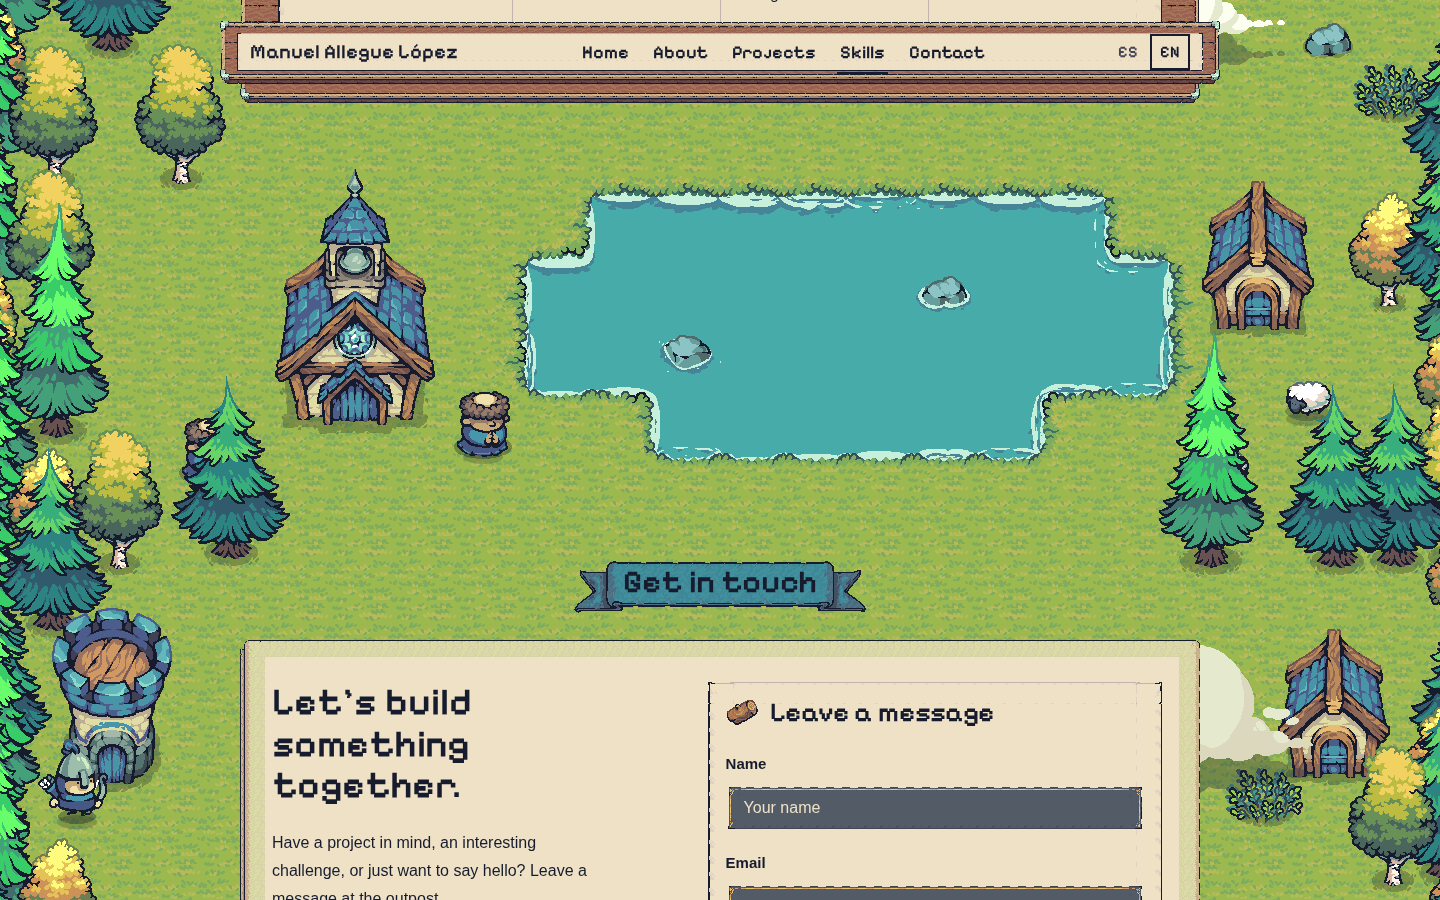
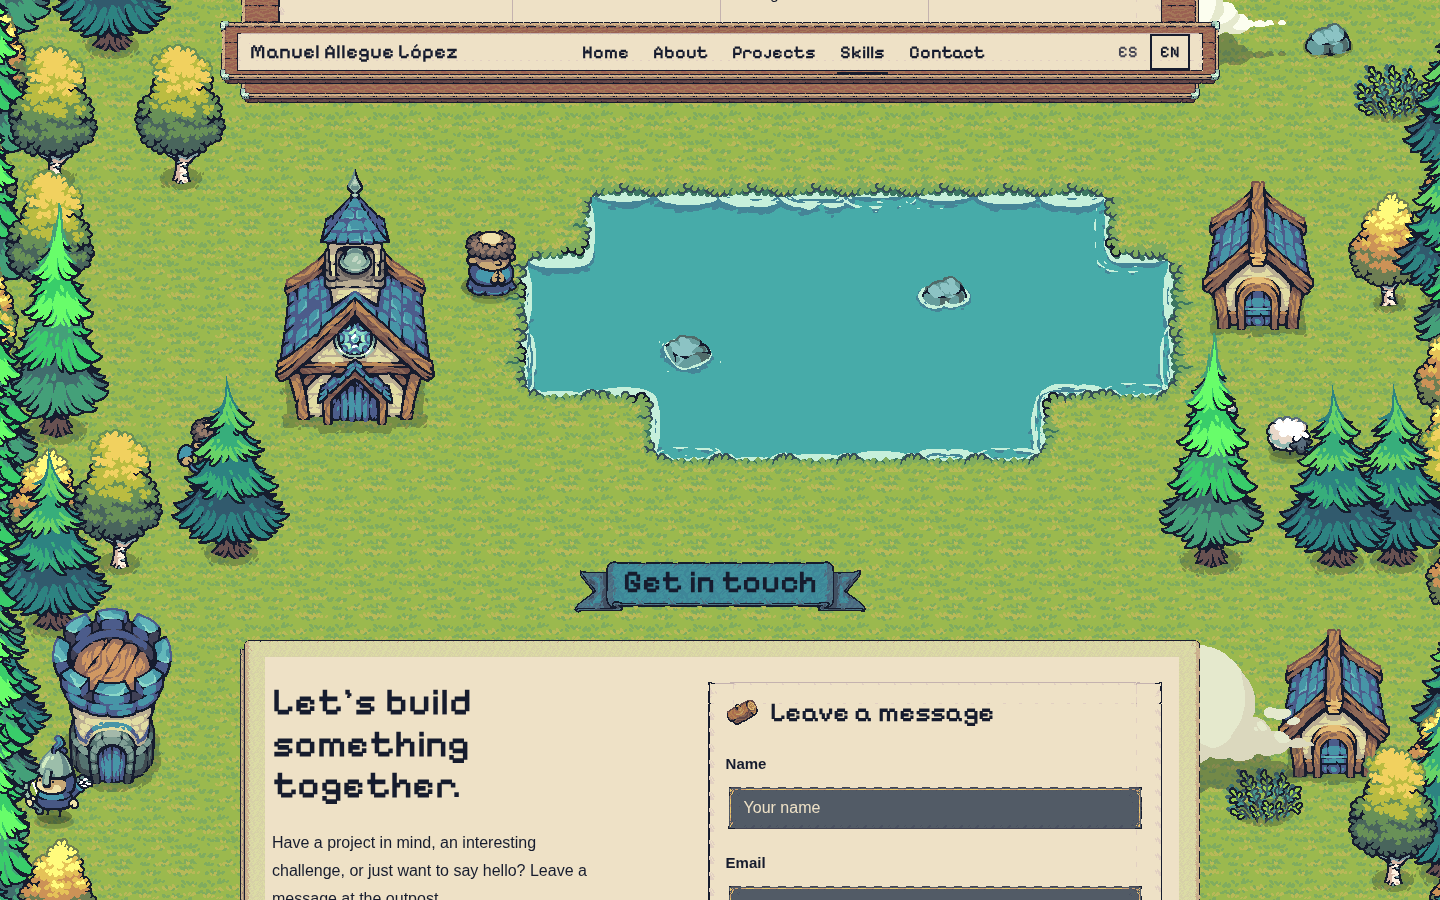
Bloqueo de Dark Reader y modo oscuro automático; el mundo arranca ya en marcha
Claude-Session: https://claude.ai/code/session_01WbA6WYaV2PG6vaPncwxB2g

diff --git a/index.html b/index.html
@@ -1,2 +1,2 @@
 <!doctype html>
-<html lang="en"><head><meta charset="UTF-8"/><meta name="viewport" content="width=device-width, initial-scale=1.0"/><meta name="theme-color" content="#304a3f"/><meta name="description" content="Full-Stack Developer. Games, engines and tools, presented inside the living world of TinyRTS."/><link rel="icon" type="image/png" href="/assets/ui/Icon_05.png"/><title>Manuel Allegue López — Full-Stack Developer</title></head><body><div id="root"></div><script type="module" src="/src/main.tsx"></script></body></html>
+<html lang="en"><head><meta charset="UTF-8"/><meta name="viewport" content="width=device-width, initial-scale=1.0"/><meta name="color-scheme" content="only light"/><meta name="darkreader-lock"/><meta name="theme-color" content="#304a3f"/><meta name="description" content="Full-Stack Developer. Games, engines and tools, presented inside the living world of TinyRTS."/><link rel="icon" type="image/png" href="/assets/ui/Icon_05.png"/><title>Manuel Allegue López — Full-Stack Developer</title></head><body><div id="root"></div><script type="module" src="/src/main.tsx"></script></body></html>

diff --git a/src/content/es.ts b/src/content/es.ts
@@ -43,7 +43,7 @@ export const es: Content = {
       { name: 'Frontend', icon: '05', description: 'Interfaces que se sienten bien.', technologies: ['React', 'TypeScript', 'JavaScript', 'HTML y CSS', 'Angular'] },
       { name: 'Backend', icon: '06', description: 'Cimientos sólidos por debajo.', technologies: ['C# / .NET', 'Python / Django', 'Node.js', 'Java'] },
       { name: 'Datos', icon: '03', description: 'Que los números cuenten algo.', technologies: ['SQL y PL/SQL', 'SQL Server', 'BI e IBM Cognos', 'MongoDB'] },
-      { name: 'DevOps y herramientas', icon: '10', description: 'Un flujo de trabajo fiable.', technologies: ['Linux', 'Bash', 'Docker', 'Git y GitHub', 'Azure DevOps'] },
+      { name: 'DevOps', icon: '10', description: 'Un flujo de trabajo fiable.', technologies: ['Linux', 'Bash', 'Docker', 'Git y GitHub', 'Azure DevOps'] },
     ],
   },
   contact: {

diff --git a/src/content/en.ts b/src/content/en.ts
@@ -43,7 +43,7 @@ export const en = {
       { name: 'Frontend', icon: '05', description: 'Interfaces that feel right.', technologies: ['React', 'TypeScript', 'JavaScript', 'HTML & CSS', 'Angular'] },
       { name: 'Backend', icon: '06', description: 'Solid foundations underneath.', technologies: ['C# / .NET', 'Python / Django', 'Node.js', 'Java'] },
       { name: 'Data', icon: '03', description: 'Make the numbers tell a story.', technologies: ['SQL & PL/SQL', 'SQL Server', 'BI & IBM Cognos', 'MongoDB'] },
-      { name: 'DevOps & Tools', icon: '10', description: 'A dependable workflow.', technologies: ['Linux', 'Bash', 'Docker', 'Git & GitHub', 'Azure DevOps'] },
+      { name: 'DevOps', icon: '10', description: 'A dependable workflow.', technologies: ['Linux', 'Bash', 'Docker', 'Git & GitHub', 'Azure DevOps'] },
     ],
   },
   contact: {

diff --git a/src/world/WorldCanvas.tsx b/src/world/WorldCanvas.tsx
@@ -41,6 +41,8 @@ export function WorldCanvas({ paused }: { paused: boolean }) {
         layout = signature;
         world = compose(boxes, worldW, worldH);
         entities = spawn(world.actors, 1);
+        // Start mid-day, not at dawn: nobody should be found stacked at their doorstep, least of all in a still frame.
+        for (let i = 0; i < 900; i++) step(entities, 0.05);
         Object.assign(window, { __world: { world, entities, costs } });   // read by the end-to-end tests
       }
       dirty = true;
